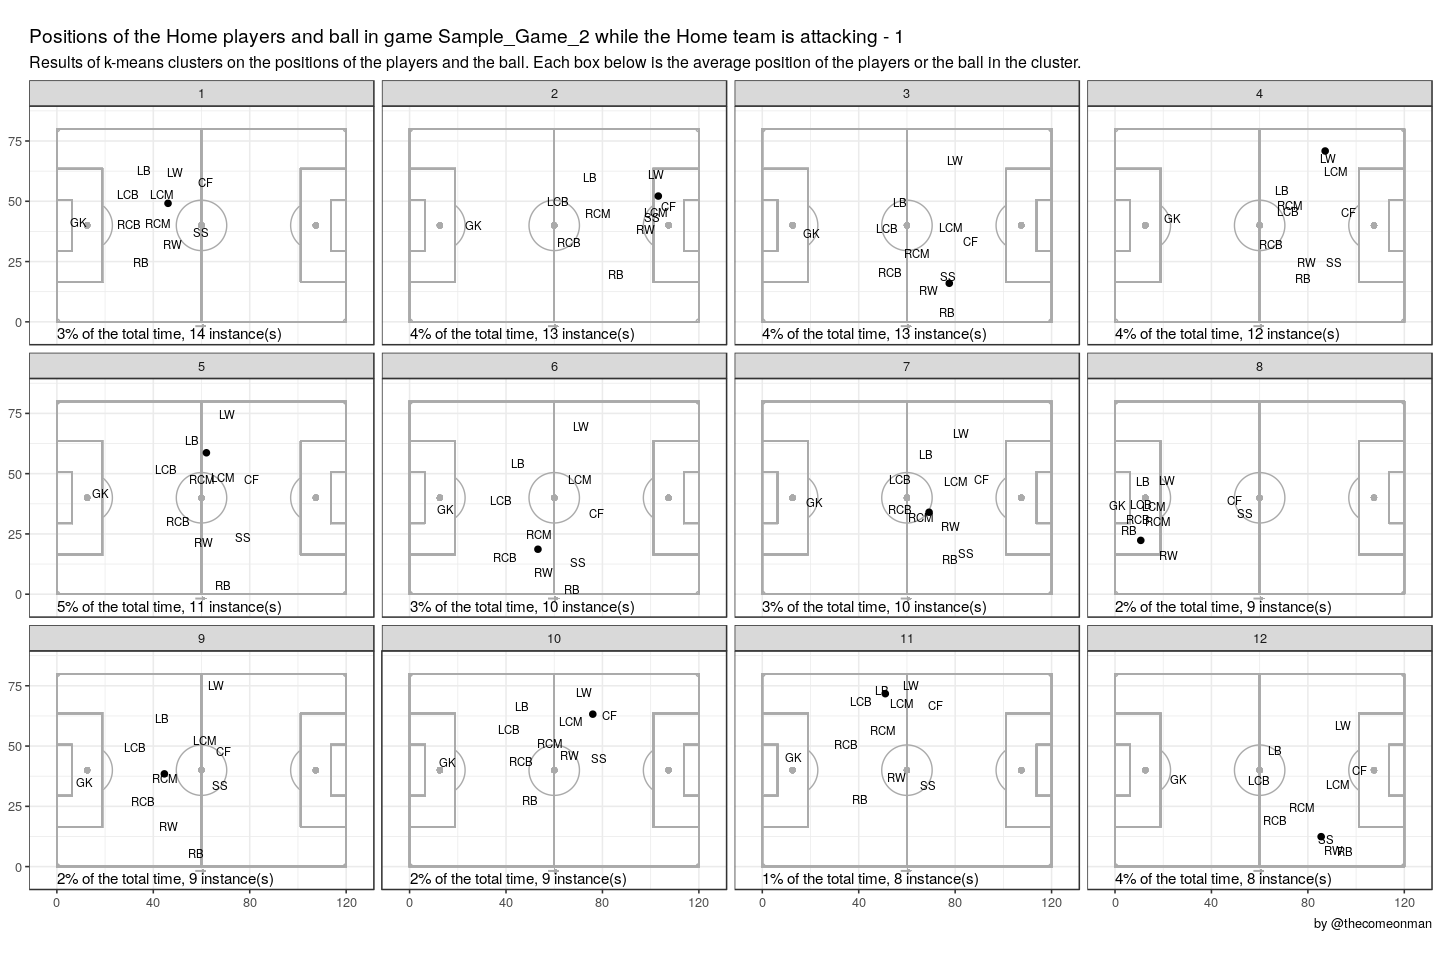
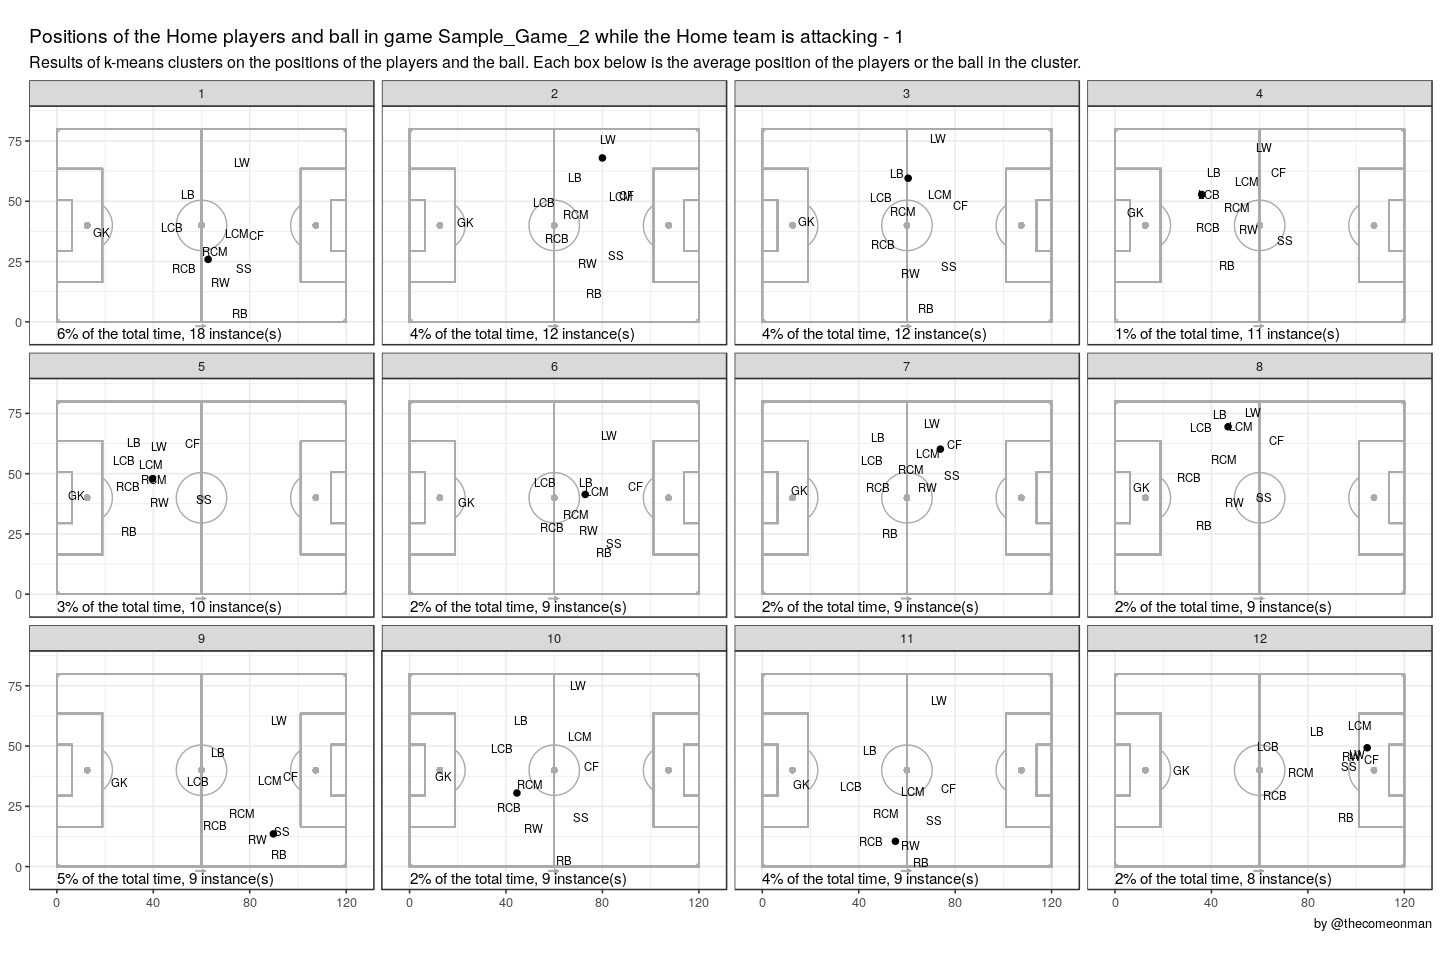
Added seed, updated bullet points.

diff --git a/ClusteringPlayerBallCoordinates.md b/ClusteringPlayerBallCoordinates.md
@@ -10,3 +10,42 @@ of Tracking sessions by Metrica from here -
 <a href="https://github.com/metrica-sports/sample-data" class="uri">https://github.com/metrica-sports/sample-data</a>
 
 ![](ClusteringPlayerBallCoordinates_files/figure-markdown_strict/PrintingRresults-1.png)![](ClusteringPlayerBallCoordinates_files/figure-markdown_strict/PrintingRresults-2.png)![](ClusteringPlayerBallCoordinates_files/figure-markdown_strict/PrintingRresults-3.png)![](ClusteringPlayerBallCoordinates_files/figure-markdown_strict/PrintingRresults-4.png)
+
+Some things that you can quickly see
+------------------------------------
+
+-   They seem to either play in a 4-4-1-1 / 4-4-2, see clusters 4, 5, 7,
+    8
+
+-   Or they switch to a back three sometimes with the two CBs and either
+    the LB or the RCM, see clusters 1, 2, 3
+
+-   The LCM is more involved further up the field than the RCM, see
+    clusters 2, 3, 9
+
+-   The RB has more of an attacking role than the LB, see clusters 1, 6,
+    9
+
+-   Attacks go through the right more often than the left
+
+-   The LB has a more defensive role
+
+-   The RW has a more central role, either as an RWF or a CM, see
+    clusters 1, 2, 3
+
+-   The SS, RW, and RB have a lot of combinations, see clusters 6, 9
+
+-   The LW, and the RB as well, try to provide width, see clusters 1, 3,
+    6a
+
+-   Clusters 16, 30 might be corners
+
+Disclaimer
+----------
+
+I usually don’t post things so early in the process but making an
+exception because I’m surprised: 1. at how informative this already is
+2. that I haven’t seen this on Twitter yet. A quick Google Scholar
+search didn’t give anything strong either
+
+Will look around some more.
